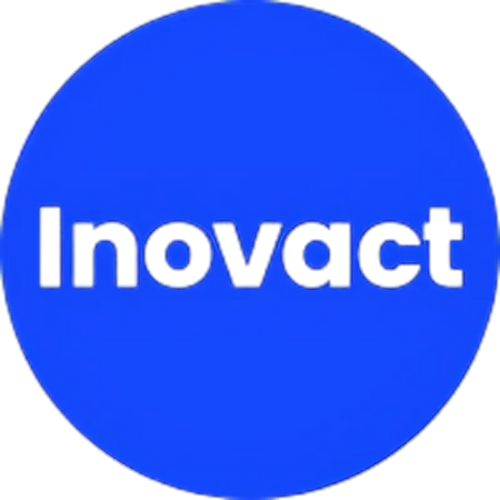
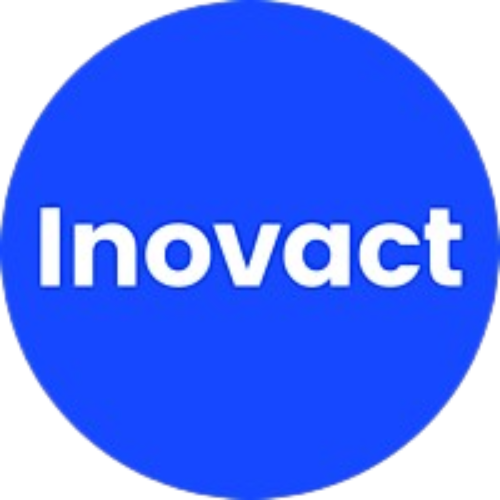
added images

diff --git a/components/Sponsors.jsx b/components/Sponsors.jsx
@@ -32,13 +32,13 @@ function Sponsors() {
       { id: 2, name: "Platinum Sponsor 2", logo: "/placeholder.svg?height=100&width=200" },
     ],
     gold: [
-      { id: 1, name: "Gold Sponsor 1", logo: "https://media.licdn.com/dms/image/v2/D4D0BAQHgu_N0xl290g/company-logo_200_200/company-logo_200_200/0/1709907862057/0xday_logo?e=2147483647&v=beta&t=Z4W7JAzQQv33LQxTE6ID_tYa6v7h-bb99kEBXl_vOIo" },
-      { id: 2, name: "Gold Sponsor 2", logo: "https://media.licdn.com/dms/image/v2/C560BAQHRD8_tPD_c4w/company-logo_200_200/company-logo_200_200/0/1668973159544/inovact_pvt_ltd2_logo?e=2147483647&v=beta&t=wYRt21sQh1yw61QaFvpOa0fqkl4sUJwvs9k8TLUKje8" },
+      { id: 1, name: "Gold Sponsor 1", logo: "/sponsors/ox.png" },
+      { id: 2, name: "Gold Sponsor 2", logo: "/sponsors/innovact.png" },
       // { id: 3, name: "Gold Sponsor 3", logo: "/placeholder.svg?height=100&width=200" },
     ],
     silver: [
-      { id: 1, name: "Silver Sponsor 1", logo: "https://upload.wikimedia.org/wikipedia/commons/thumb/f/fc/.xyz_logo.svg/1200px-.xyz_logo.svg.png" },
-      { id: 2, name: "Silver Sponsor 2", logo: "https://media.licdn.com/dms/image/v2/D560BAQEqzh_Uhd_rbw/company-logo_200_200/company-logo_200_200/0/1684437783960/codecraftersio_logo?e=2147483647&v=beta&t=xehlblVMw6zGFt5W7qBeiK4MkSjRxbxndVn_SSA-4h0" },
+      { id: 1, name: "Silver Sponsor 1", logo: "/sponsors/xyz.png" },
+      { id: 2, name: "Silver Sponsor 2", logo: "/sponsors/codecrafter.png" },
       { id: 3, name: "Silver Sponsor 3", logo: "https://encrypted-tbn0.gstatic.com/images?q=tbn:ANd9GcRxT6W2J3-40UX9t2ELVsd2lBlaVIsMk63iKQ&s" },
       // { id: 4, name: "Silver Sponsor 4", logo: "/placeholder.svg?height=100&width=200" },
     ],
@@ -183,15 +183,15 @@ function Sponsors() {
         case 'gold':
         case 'silver':
           return {
-            maxWidth: "200px",
-            maxHeight: "120px",
+            maxWidth: "250px",
+            maxHeight: "150px",
             width: "100%",
             objectFit: "contain"
           };
         default:
           return {
-            maxWidth: "200px",
-            maxHeight: "120px",
+            maxWidth: "250px",
+            maxHeight: "150px",
             width: "100%",
             objectFit: "contain"
           };
